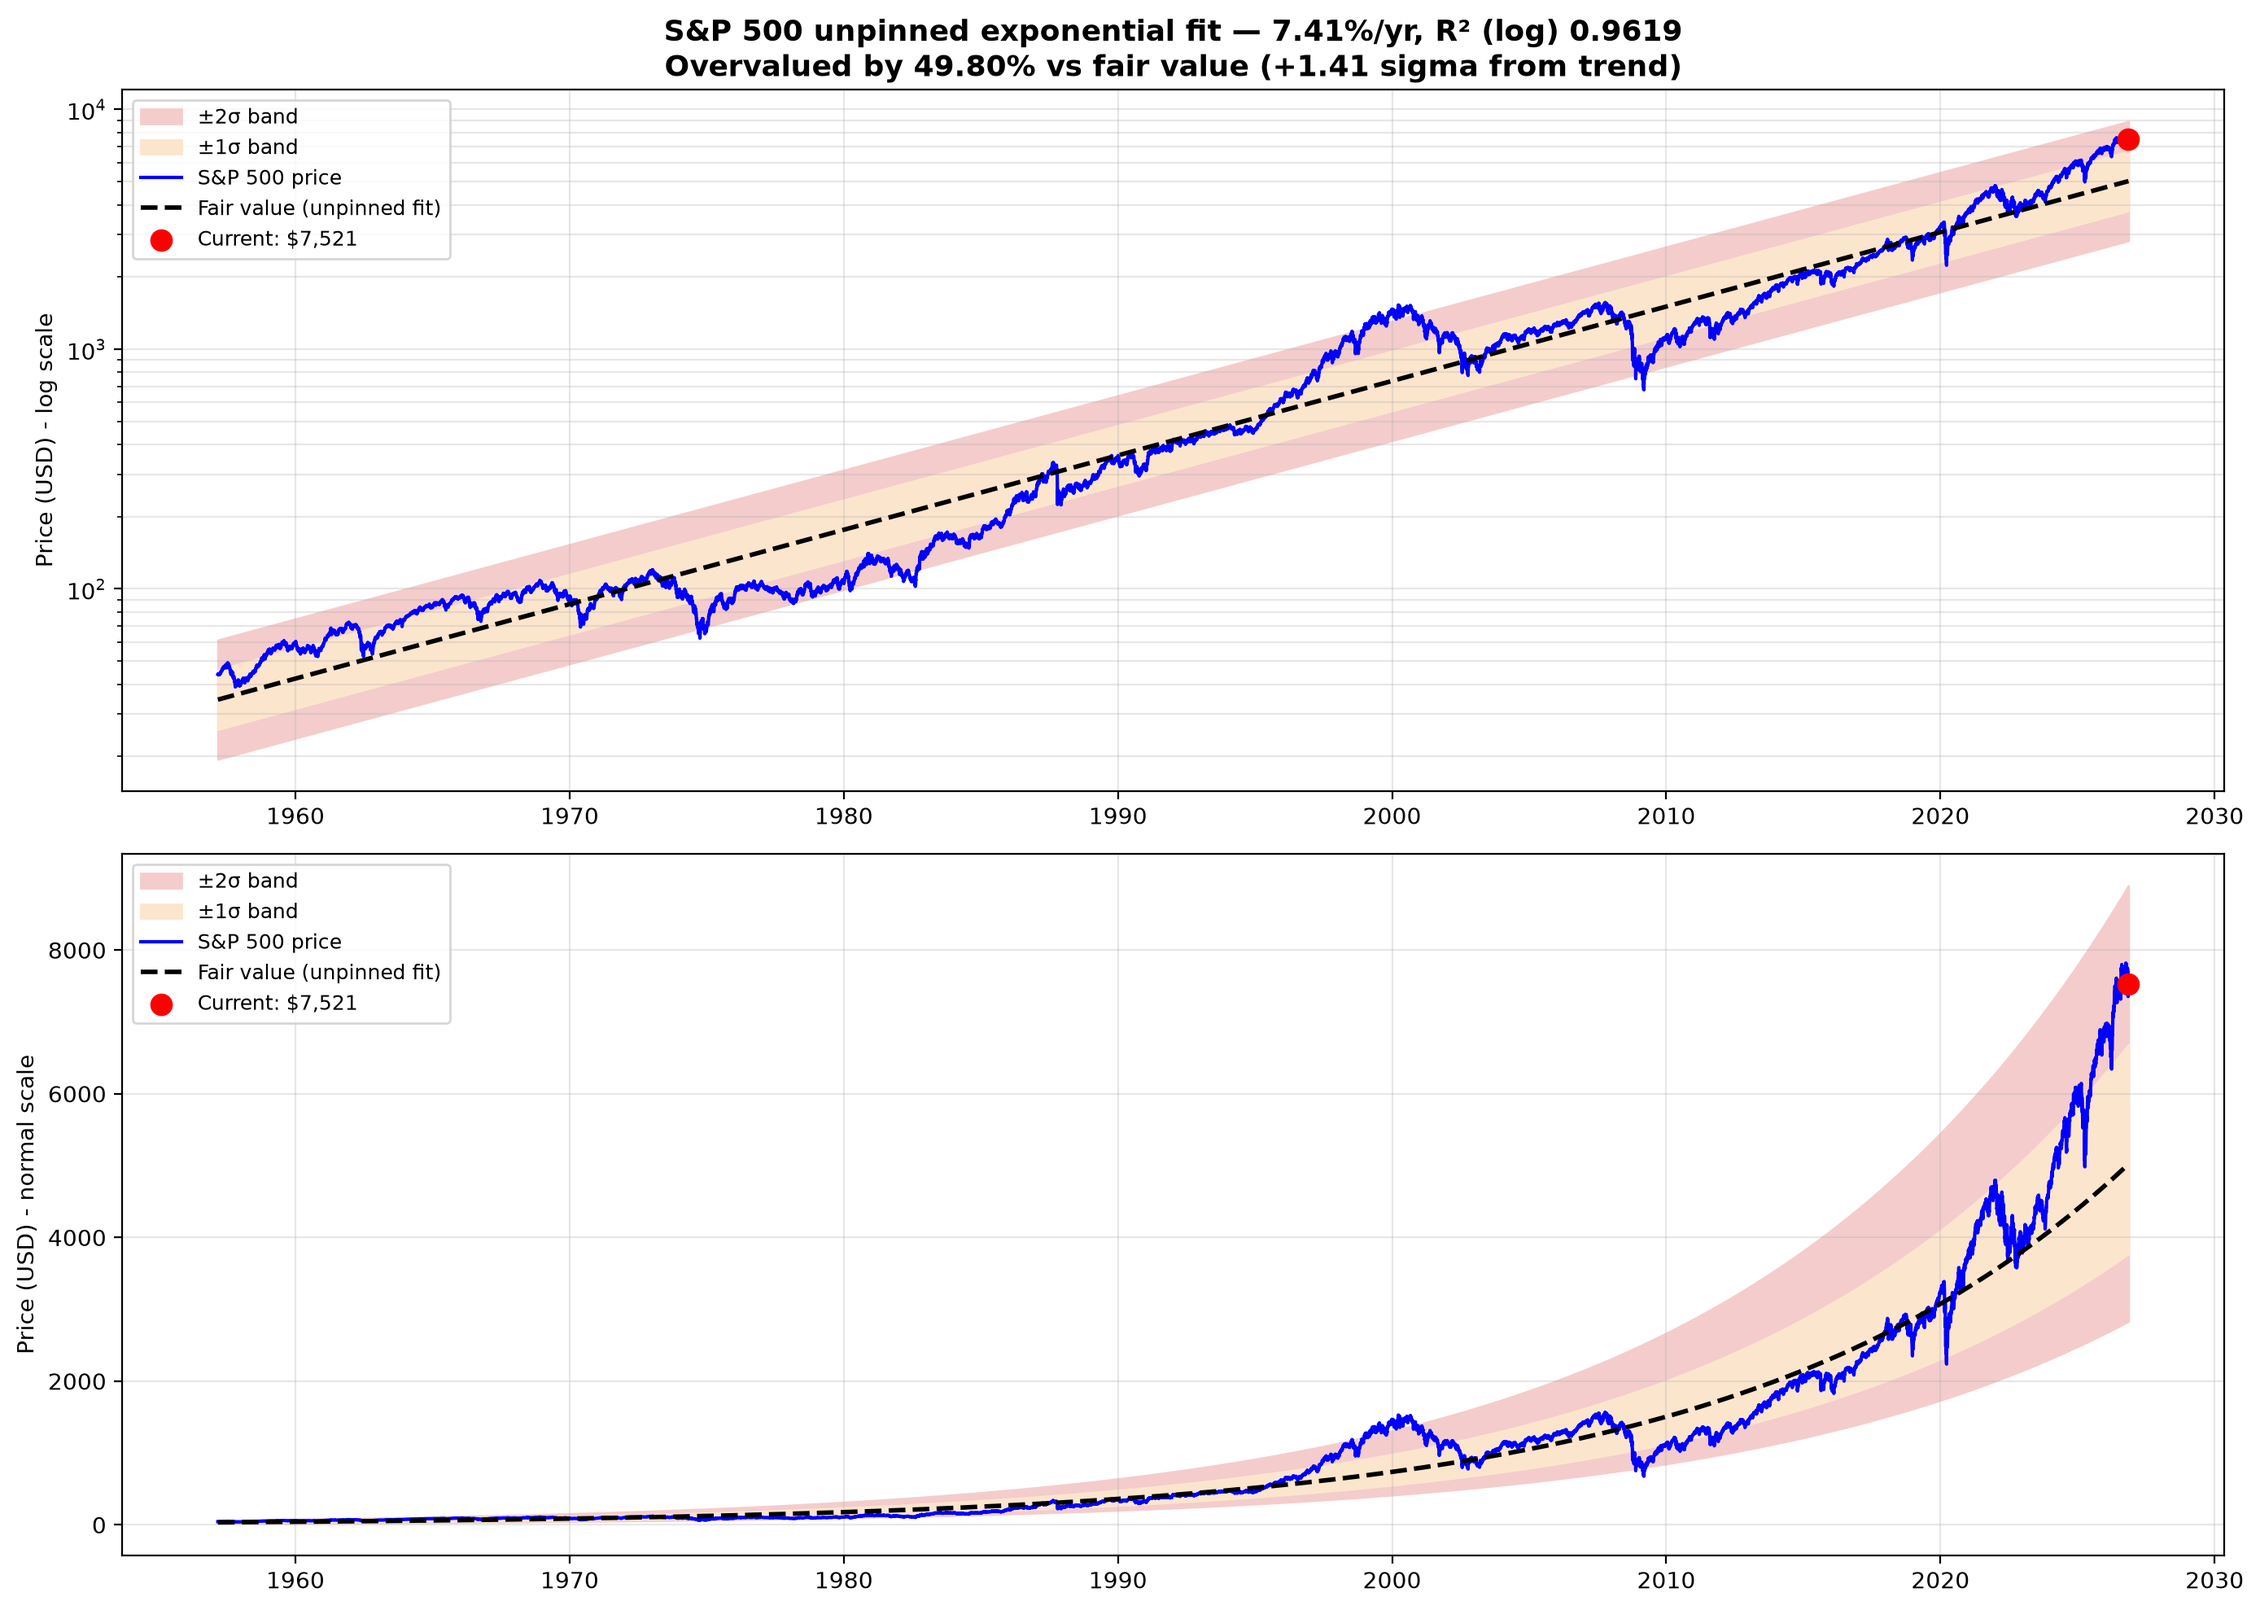
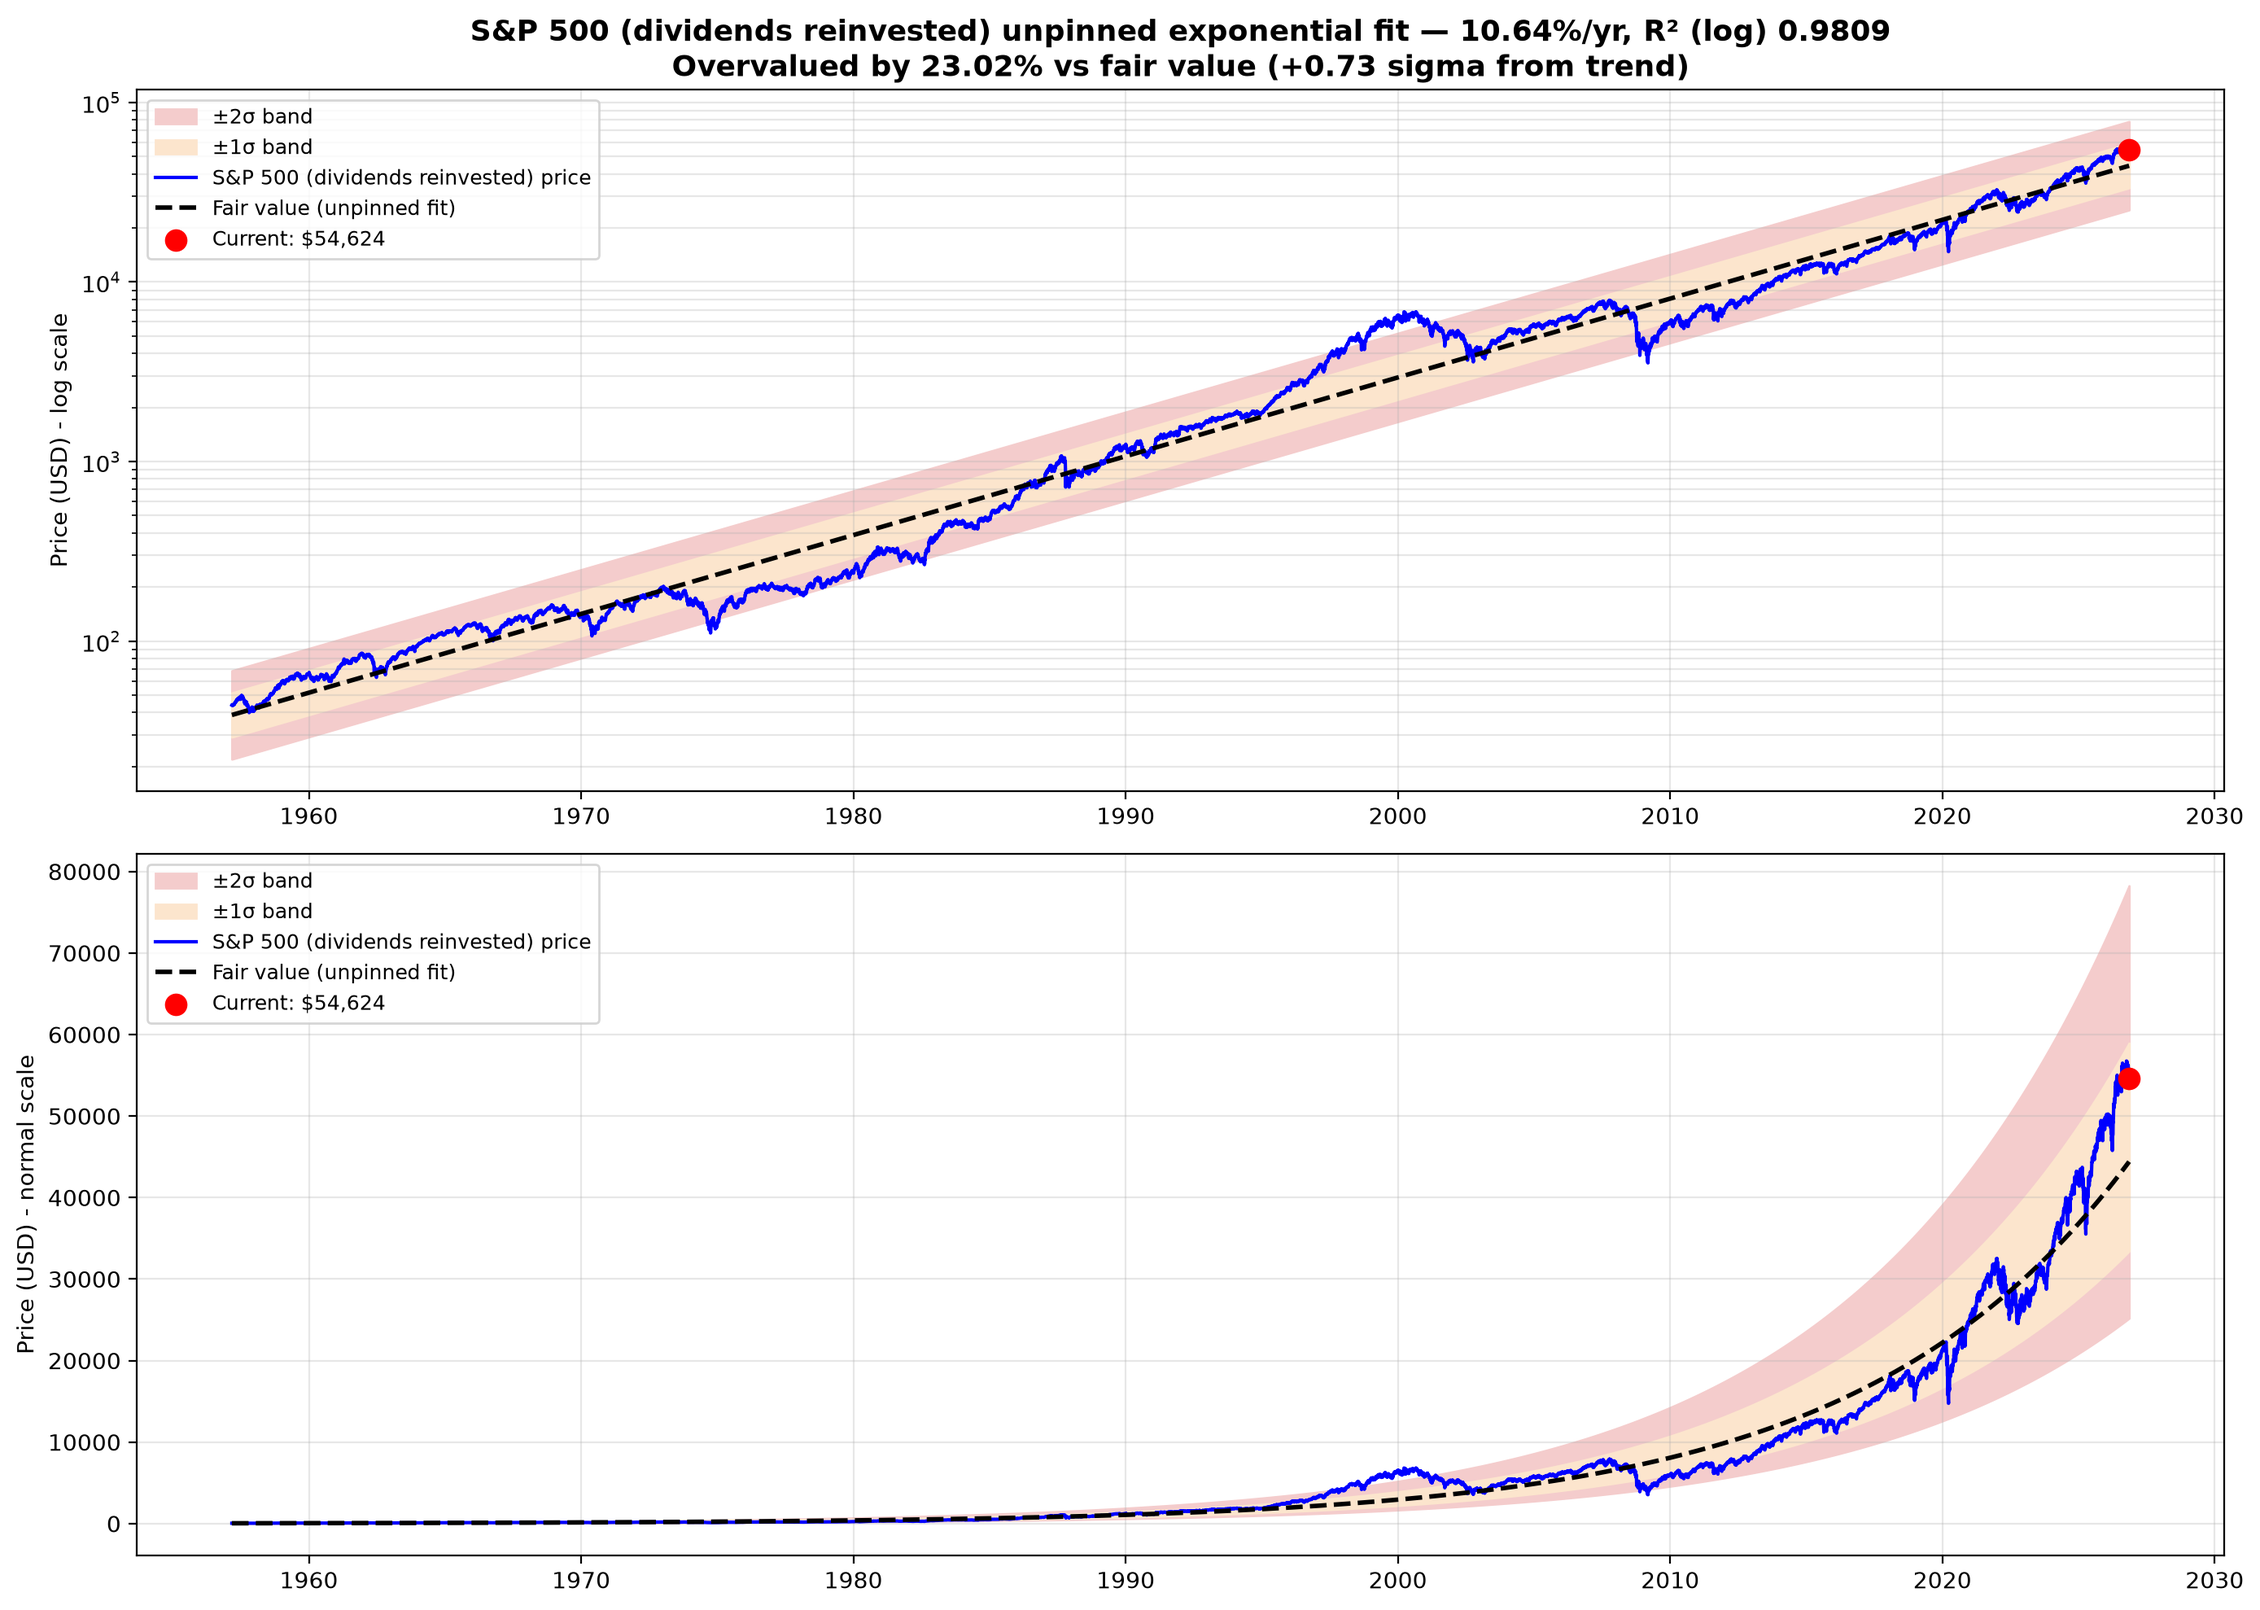
Model S&P 500 with dividends reinvested
- SP500/update_prices.py refreshes both the price index (^GSPC) and a
  dividends-reinvested series: 1957-1987 reconstructed from daily prices plus
  Shiller monthly dividends (validated to within 0.06%/yr of the official
  index over 1988-2023), 1988-present from ^SP500TR. Data CSVs are gitignored.
- SP500/exponential_unpinned now fits the total-return series, so its growth
  rate is an expected annual total return comparable to non-dividend assets.

diff --git a/SP500/update_prices.py b/SP500/update_prices.py
@@ -1,0 +1,68 @@
+"""
+Refresh both S&P 500 data files from Yahoo Finance.
+
+- Data/SP500_all_time_price.csv : price index (^GSPC), 1927-present, no dividends.
+- Data/SP500_total_return.csv   : dividends reinvested, 1957-present.
+    Rows before 1988-01-04 are a one-time reconstruction (daily ^GSPC prices +
+    Robert Shiller's monthly dividend data) and are kept as-is. From 1988-01-04
+    on, the official total-return index (^SP500TR) is re-downloaded and chained
+    onto the saved 1988-01-04 value, so the two pieces join seamlessly.
+
+Usage: python update_prices.py   (from any folder)
+"""
+import warnings
+from pathlib import Path
+
+import pandas as pd
+import yfinance as yf
+
+warnings.filterwarnings("ignore")
+DATA = Path(__file__).resolve().parent / "Data"
+PRICE_FILE = DATA / "SP500_all_time_price.csv"
+TR_FILE = DATA / "SP500_total_return.csv"
+SPLICE = pd.Timestamp("1988-01-04")
+
+
+def fetch(ticker):
+    h = yf.Ticker(ticker).history(period="max", auto_adjust=False)
+    h.index = h.index.tz_localize(None).normalize()
+    return h[h["Close"] > 0]
+
+
+def to_csv(dates, close, path, ohlcv=None):
+    out = pd.DataFrame({
+        "Date": dates.strftime("%m/%d/%Y"),
+        "Price": close.round(4).values,
+        "Open": "" if ohlcv is None else ohlcv["Open"].round(2).values,
+        "High": "" if ohlcv is None else ohlcv["High"].round(2).values,
+        "Low": "" if ohlcv is None else ohlcv["Low"].round(2).values,
+        "Vol.": "" if ohlcv is None else (ohlcv["Volume"] / 1e3).map(lambda v: f"{v:.2f}K").values,
+        "Change %": (close.pct_change() * 100).fillna(0).map(lambda v: f"{v:.2f}%").values,
+    })
+    out.to_csv(path, index=False)
+    return out
+
+
+def main():
+    gspc = fetch("^GSPC")
+    to_csv(gspc.index, gspc["Close"], PRICE_FILE, gspc)
+    print(f"Price index: {gspc.index[0]:%Y-%m-%d} -> {gspc.index[-1]:%Y-%m-%d} ({len(gspc)} rows)")
+
+    if not TR_FILE.exists():
+        raise FileNotFoundError(f"{TR_FILE} is missing; the pre-1988 reconstruction must be rebuilt first.")
+    old = pd.read_csv(TR_FILE)
+    old["Date"] = pd.to_datetime(old["Date"], format="%m/%d/%Y")
+    old = old.set_index("Date")["Price"].astype(float)
+    anchor = old.get(SPLICE)
+    if anchor is None:
+        raise ValueError(f"{TR_FILE} has no {SPLICE:%Y-%m-%d} row to chain onto.")
+
+    tr = fetch("^SP500TR")["Close"][SPLICE:]
+    tr = tr / tr.iloc[0] * anchor
+    series = pd.concat([old[old.index < SPLICE], tr])
+    to_csv(series.index, series, TR_FILE)
+    print(f"Total return: {series.index[0]:%Y-%m-%d} -> {series.index[-1]:%Y-%m-%d} ({len(series)} rows)")
+
+
+if __name__ == "__main__":
+    main()

diff --git a/SP500/exponential_unpinned/config.py b/SP500/exponential_unpinned/config.py
@@ -7,7 +7,7 @@ growth rate and level are both fitted to the whole history on a log scale
 """
 from pathlib import Path
 
-CURRENCY_NAME = "S&P 500"
+CURRENCY_NAME = "S&P 500 (dividends reinvested)"
 CURRENCY_NAME_LOWER = "sp500"
 
 # First date included in the fit. "" = use all available data.
@@ -25,5 +25,5 @@ SPIKE_CHECK_YEARS = 2
 
 # Paths (resolved from this file, so scripts work from any working directory)
 REPO_ROOT = Path(__file__).resolve().parents[2]
-DATA_FILE = REPO_ROOT / "SP500" / "Data" / "SP500_all_time_price.csv"
+DATA_FILE = REPO_ROOT / "SP500" / "Data" / "SP500_total_return.csv"  # dividends reinvested; price-only: SP500_all_time_price.csv
 OUTPUT_FOLDER = Path(__file__).resolve().parent
